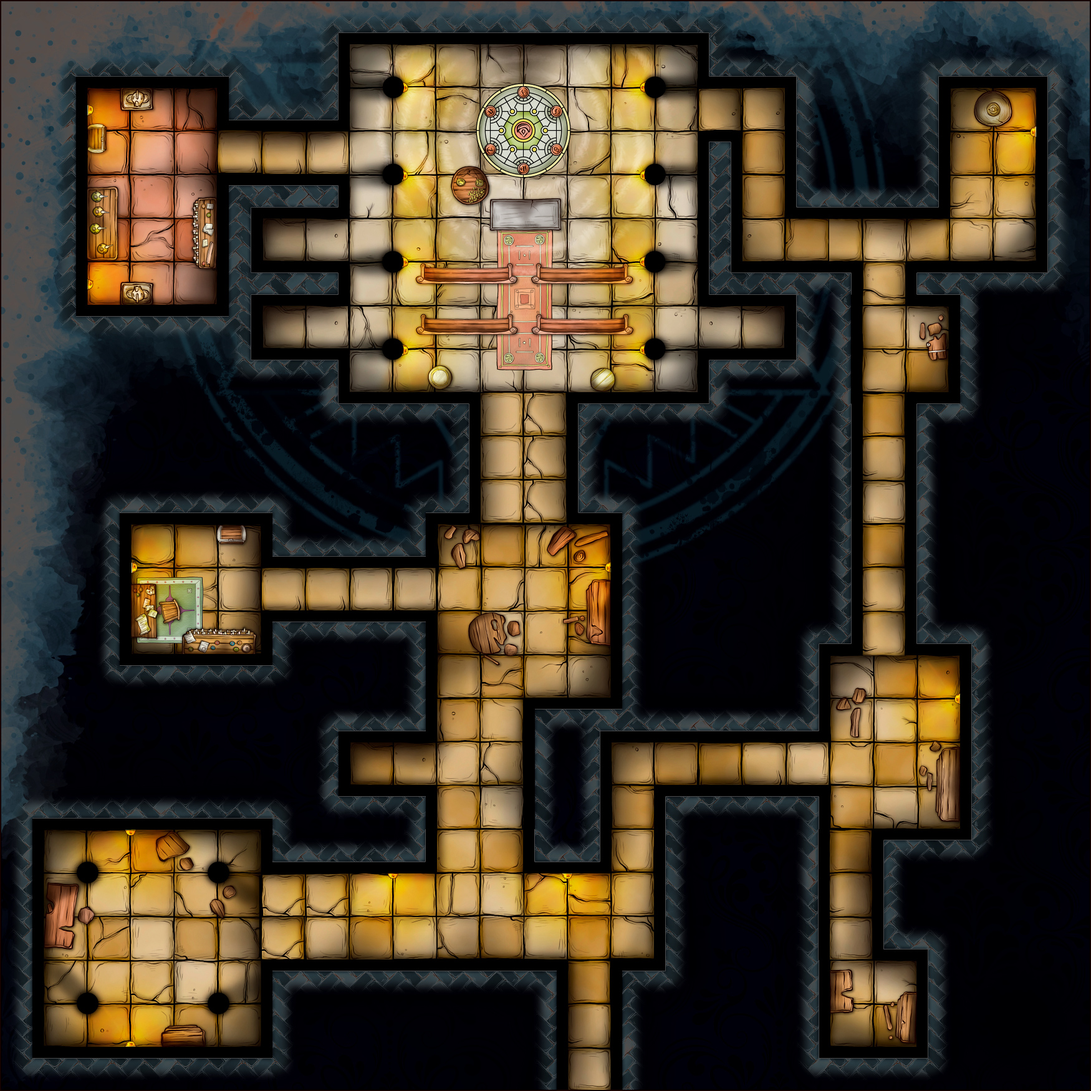
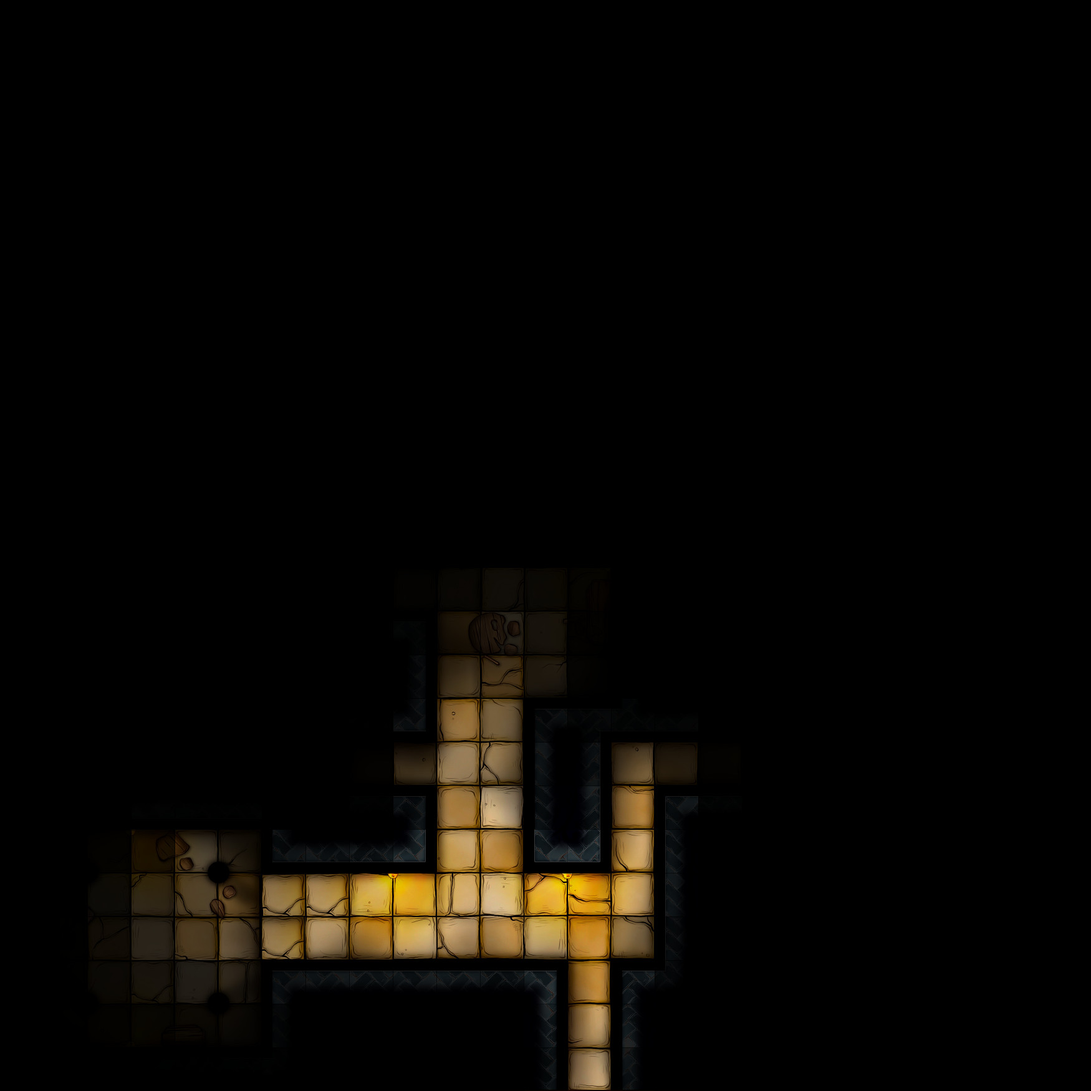
Luces dinámicas automáticas

diff --git a/rq/libControllers.php b/rq/libControllers.php
@@ -63,7 +63,7 @@ function getGuideActionFunction($guideline){
 	return $ret;
 }
 
-function distanceTiles($x1, $y1, $x2, $y2){
+function distance_tiles($x1, $y1, $x2, $y2){
 	return sqrt(pow($x2-$x1,2)+pow($y2-$y1,2));
 }
 
@@ -75,7 +75,7 @@ function distanceTokens($token1, $token2){
 		for($b=0; $b<$token1['h'];$b++){
 			for($c=0; $c<$token2['w']; $c++){
 				for($d=0; $d<$token2['h']; $d++){
-					$current_d = distanceTiles($token1['x']+$a, $token1['y']+$b, $token2['x']+$c, $token2['y']+$d);
+					$current_d = distance_tiles($token1['x']+$a, $token1['y']+$b, $token2['x']+$c, $token2['y']+$d);
 					if ($current_d<$min_d){
 						$min_d = $current_d;
 						$x1 = $token1['x']+$a;
@@ -218,6 +218,73 @@ function isVisible_between_tiles(&$board, $im, &$token, $toX, $toY){
 	return $v;
 }
 
+function apply_lights(&$board, $im_walls, $im_full){
+	error_log("APPLY LIGHTS");
+	$arr_lights = array($board->ntilesw,$board->ntilesh);
+	$arr_lights2 = array($board->ntilesw,$board->ntilesh);
+	for ($y=0; $y<=$board->ntilesh+1; $y++) 
+		for($x=0; $x<=$board->ntilesw+1; $x++) {
+			$arr_lights[$x][$y]=0;
+			$arr_lights2[$x][$y]=0;
+		}
+
+	$black = imagecolorallocate($im_full, 0, 0, 0);
+	$arrBlack = array();
+	$max_d = 8;
+	$pi2 = 3.14/2.0;
+	for($d=0; $d<=$max_d; $d++){
+		$arrBlack[$d] = imagecolorallocatealpha($im_full, 0, 0, 0, 127*cos($pi2*(($d/$max_d))));
+	}
+	$rs_pc = get_tokens_by_pc($board->id, 1);
+	while($row_token = mysqli_fetch_array($rs_pc)){
+		for ($y=1; $y<=$board->ntilesh; $y++){
+			for ($x=1; $x<=$board->ntilesw; $x++){
+				$d = floor(distance_tiles($row_token['x'], $row_token['y'], $x, $y));
+				if ($x==3 && $y==22) error_log("D: $d");
+				//error_log("$x $y");
+				if ($d<=$max_d) {
+					$v = isVisible_between_tiles($board, $im_walls, $row_token, $x, $y);
+					if ($v){
+						$light = 127*cos($pi2*(($d/$max_d)));
+						if ($x==3 && $y==22) error_log("L: $light");
+						$arr_lights[$x][$y] = $arr_lights[$x][$y] + $light;
+						$arr_lights2[$x][$y] = $arr_lights[$x][$y] + $light;
+						if ($arr_lights[$x][$y]>127) {
+							$arr_lights[$x][$y] = 127;
+							$arr_lights2[$x][$y] = 127;
+						}	
+					}
+				}
+			}
+		}
+	}
+	# Compute valor promedio de la luz del alrededor
+	for ($y=1; $y<=$board->ntilesh; $y++){
+		for ($x=1; $x<=$board->ntilesw; $x++){
+			if ($arr_lights2[$x][$y]<64){
+				$total = 0;
+				for ($j=-1; $j<2; $j++){
+					for ($i=-1; $i<2; $i++){
+						$total += $arr_lights[$x+$i][$y+$j];
+					}
+				}
+				$arr_lights[$x][$y] = $total/8;
+			}
+		}
+	}
+	for ($y=1; $y<=$board->ntilesh; $y++){
+		for ($x=1; $x<=$board->ntilesw; $x++){
+			$px = ($x-1)*70;
+			$py = ($y-1)*70;
+			$px2 = $x*70;
+			$py2 = $y*70;
+			$color = imagecolorallocatealpha($im_full, 0,0,0,$arr_lights[$x][$y]);
+			imagefilledrectangle($im_full, $px, $py, $px2, $py2, $color);
+		}
+	}
+	imagejpeg($im_full, '../img/bg/010bg.jpg', 90);
+}
+
 function show_visible_npc($idBoard, $tokenName){
 	$board = get_board($idBoard);
 	$im_bg_wall = imagecreatefrompng("../img/bg/".$board->bg."_walls.png");
@@ -225,9 +292,12 @@ function show_visible_npc($idBoard, $tokenName){
 	$tokenPc = get_token($idBoard, $tokenName);
 	$arrTokens = array();
 	while ($tokenNpc = mysqli_fetch_array($rsTokens, MYSQLI_ASSOC)){
-		$v =can_see_tokens($im_bg_wall, $tokenPc, $tokenNpc, $board); 
-		if ($v){
-			set_token_opacity_by_name($idBoard, $tokenNpc['name'], 1);
+		$d = distance_tiles($tokenPc['x'], $tokenPc['y'], $tokenNpc['x'], $tokenNpc['y']);
+		if ($d<=8){
+			$v =can_see_tokens($im_bg_wall, $tokenPc, $tokenNpc, $board); 
+			if ($v){
+				set_token_opacity_by_name($idBoard, $tokenNpc['name'], 1);
+			}
 		}
 	}
 }

diff --git a/rq/libSql.php b/rq/libSql.php
@@ -183,18 +183,18 @@ function move_token($idBoard, &$token, $x, $y, $im){
 	$token['y'] = $y;
 }
 
-function move_token_by_path($idBoard, &$token, $arrPath_tiles, $im){
+function move_token_by_path($idBoard, &$token, $arrPath_tiles, $im_walls){
 	$board = get_board($idBoard);
 	$path = '';
 	$turn = get_turn($idBoard);
 	for ($i=0; $i<sizeof($arrPath_tiles); $i++){
 		$x = $arrPath_tiles[$i]['x'];
 		$y = $arrPath_tiles[$i]['y'];
-		$is_visible = isVisible_between_tiles($board, $im, $token, $x, $y);
+		$is_visible = isVisible_between_tiles($board, $im_walls, $token, $x, $y);
 		if ($is_visible){
 			$is_free = free_from_enemy_in_tile($idBoard, $token, $x, $y);
 			if ($is_free){
-				$current_d = distanceTiles($token['x'], $token['y'], $x, $y);
+				$current_d = distance_tiles($token['x'], $token['y'], $x, $y);
 				if (floor($current_d)<=1){
 					$step = get_step($idBoard, $token['name'], 'movement');
 					if (($step['current']-$current_d)>=0){
@@ -223,6 +223,8 @@ function move_token_by_path($idBoard, &$token, $arrPath_tiles, $im){
 	$path = trim($path, ',');
 	$q = "UPDATE tokens SET path='$path' WHERE idBoard=$idBoard AND name='".$token['name']."'";
 	run_sql($q) or die();
+	$im_full = imagecreatefromjpeg("../img/bg/010bg_full.jpg");
+	apply_lights($board, $im_walls, $im_full);
 }
 
 function set_attr($idBoard, $name, $attr, $val){
@@ -307,6 +309,12 @@ function get_tokens_by_board($idBoard){
 	$result = run_sql($query) or die();
 	$row = mysqli_fetch_array($result, MYSQLI_ASSOC);
 	return $row;
+}
+
+function get_tokens_by_pc($idBoard, $pc){
+	$query = "SELECT * FROM tokens WHERE idBoard=$idBoard AND pc=$pc";
+	$result = run_sql($query) or die();
+	return $result;
 }
 
 function get_tokens_enemy($idBoard, $pc){

diff --git a/rq/import.php b/rq/import.php
@@ -1,15 +1,16 @@
 <?php
 include_once('libSql.php');
+include_once('libControllers.php');
 connectDB();
 
 reset_db();
-$files = array("medusa", "caravana");
+$files = array("medusa");
 
 foreach($files as $file){
 	# Import tokens to database
-	$board = json_decode(file_get_contents('../systems/lmde/boards/'.$file.'.json'));
-	$idBoard = insert_board($board);
-	foreach($board->tokens as $token_in_board){
+	$board_file = json_decode(file_get_contents('../systems/lmde/boards/'.$file.'.json'));
+	$idBoard = insert_board($board_file);
+	foreach($board_file->tokens as $token_in_board){
 		$token_json = json_decode(file_get_contents('../systems/lmde/tokens/'.$token_in_board->file.'.json'));
 		$token_json->x = $token_in_board->x;
 		$token_json->y = $token_in_board->y;
@@ -34,3 +35,7 @@ foreach($files as $file){
 		}
 	}
 }
+$board = get_board($idBoard);
+$im_walls = imagecreatefrompng("../img/bg/".$board->bg."_walls.png");
+$im_full = imagecreatefromjpeg("../img/bg/".$board->bg."_full.jpg");
+apply_lights($board, $im_walls, $im_full);

diff --git a/test.php b/test.php
@@ -1,0 +1,23 @@
+<?php
+function apply_lights(){
+	$im = imagecreatefromjpeg("img/bg/010bg.jpg");
+	$ntilesx=imagesx($im)/70;
+	$ntilesy=imagesy($im)/70;
+	$black = imagecolorallocate($im, 0, 0, 0);
+	$arrBlack = array();
+	$max_d = 8;
+	$pi2 = 3.14/2.0;
+	for($d=0; $d<$max_d; $d++){
+		$arrBlack[$d] = imagecolorallocatealpha($im, 0, 0, 0, 127*cos($pi2*(($d/$max_d))));
+		echo 127*cos($pi2*($d/$max_d))."\n";
+	}
+	$px=8; $py=22;
+	for ($y=0; $y<$ntilesy; $y++){
+		for ($x=0; $x<$ntilesx; $x++){
+			$d = floor(sqrt(pow($x-$px,2)+pow($y-$py,2)));
+			if ($d>$max_d-1)	imagefilledrectangle($im, $x*70, $y*70, ($x+1)*70, ($y+1)*70, $black);
+			else imagefilledrectangle($im, $x*70, $y*70, ($x+1)*70, ($y+1)*70, $arrBlack[$d]);
+		}
+	}
+	imagejpeg($im, 'test.jpg', 100);
+}

diff --git a/rq/send.php b/rq/send.php
@@ -85,8 +85,8 @@
 		if ($name!=null && $x!=null && $y!=null){
 			$token = get_token($idBoard, $name);
 			$board = get_board($idBoard);
-			$im = imagecreatefrompng("../img/bg/".$board->bg."_walls.png");
-			move_token_by_path($idBoard, $token, $arr_path, $im);
+			$im_walls = imagecreatefrompng("../img/bg/".$board->bg."_walls.png");
+			move_token_by_path($idBoard, $token, $arr_path, $im_walls);
 			if ($token['pc']==1){
 				show_visible_npc($idBoard, $name);
 			}

diff --git a/doc/changelog.md b/doc/changelog.md
@@ -5,6 +5,8 @@
 
 ## Versiones
 
+1.49	Luz dinámica
+1.48	Añadido Gac0 a la ficha y elimina correctamente tokens del tablero
 1.45	Output en servidor correcto con ñ y tilde
 1.44	Modo defensivo
 1.43	Se puede realizar una carga desde la ficha de personaje
